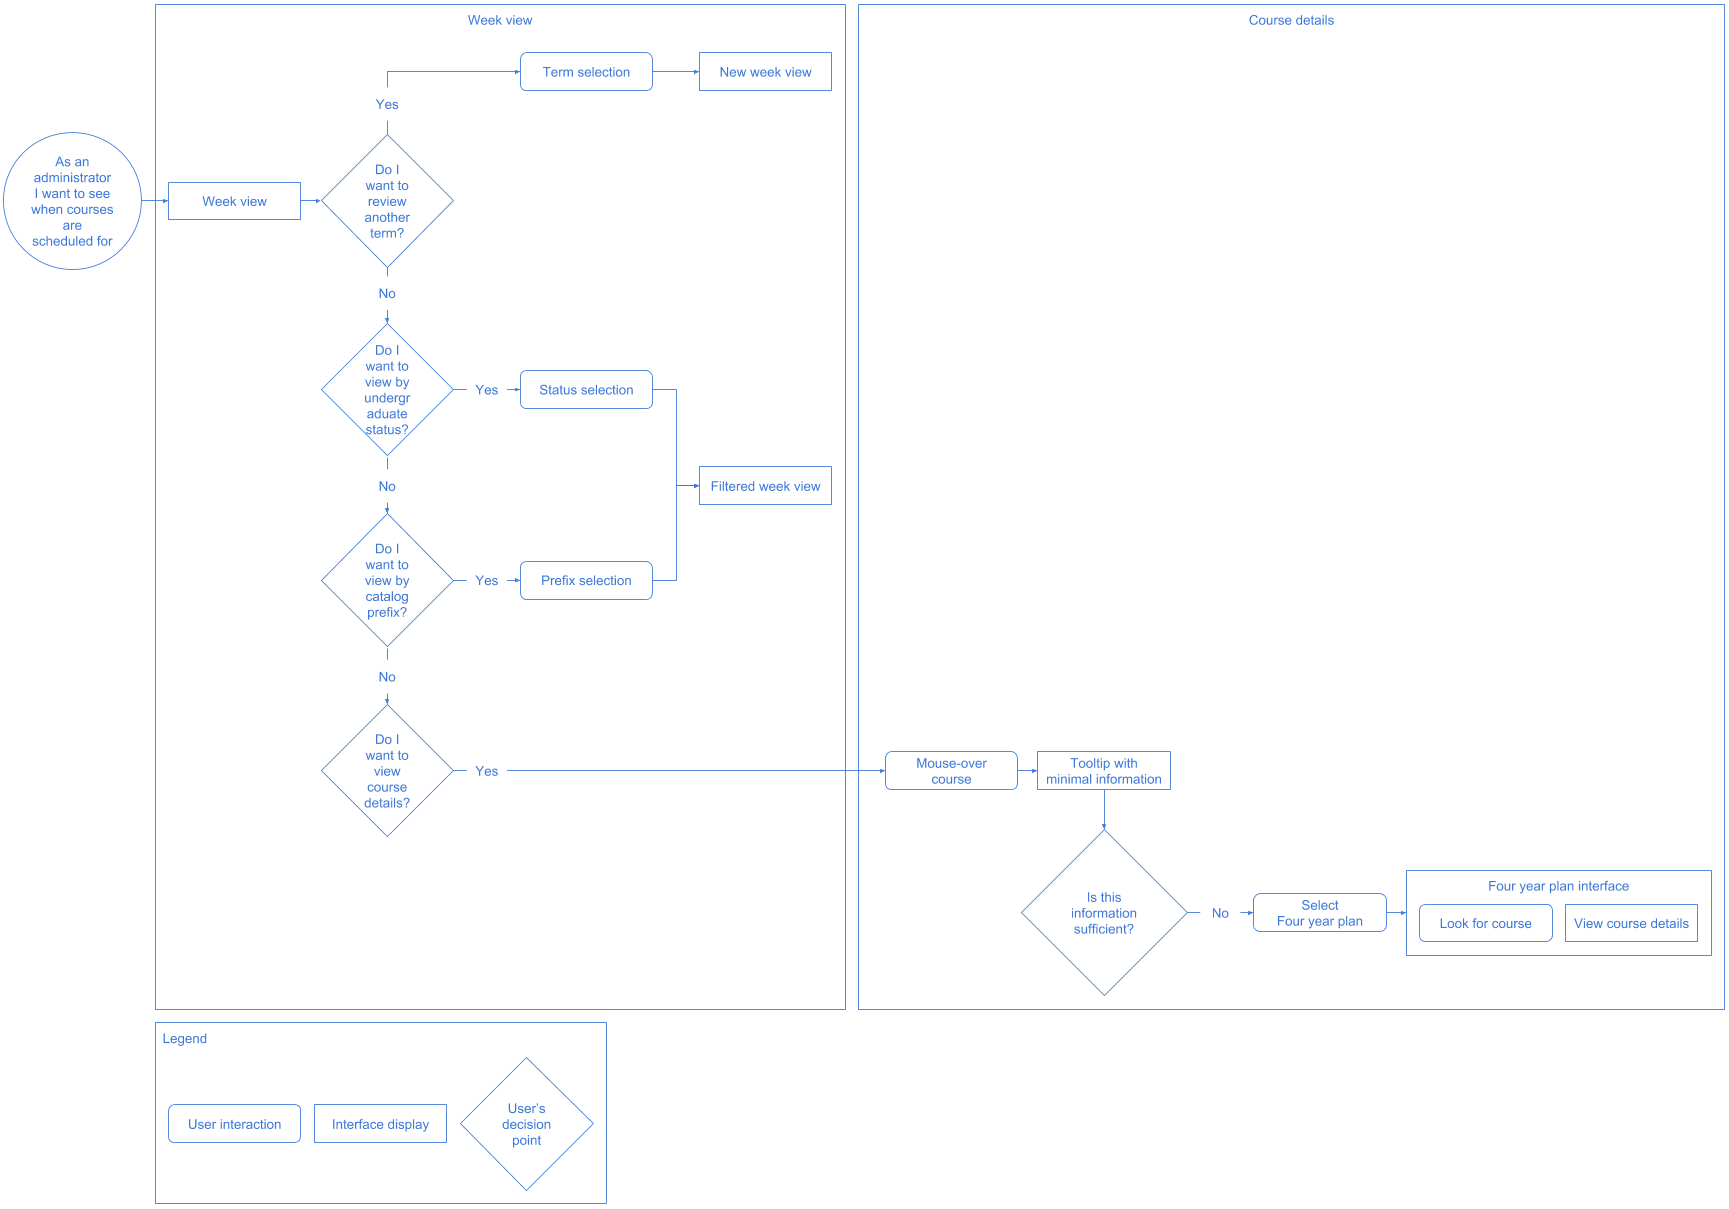
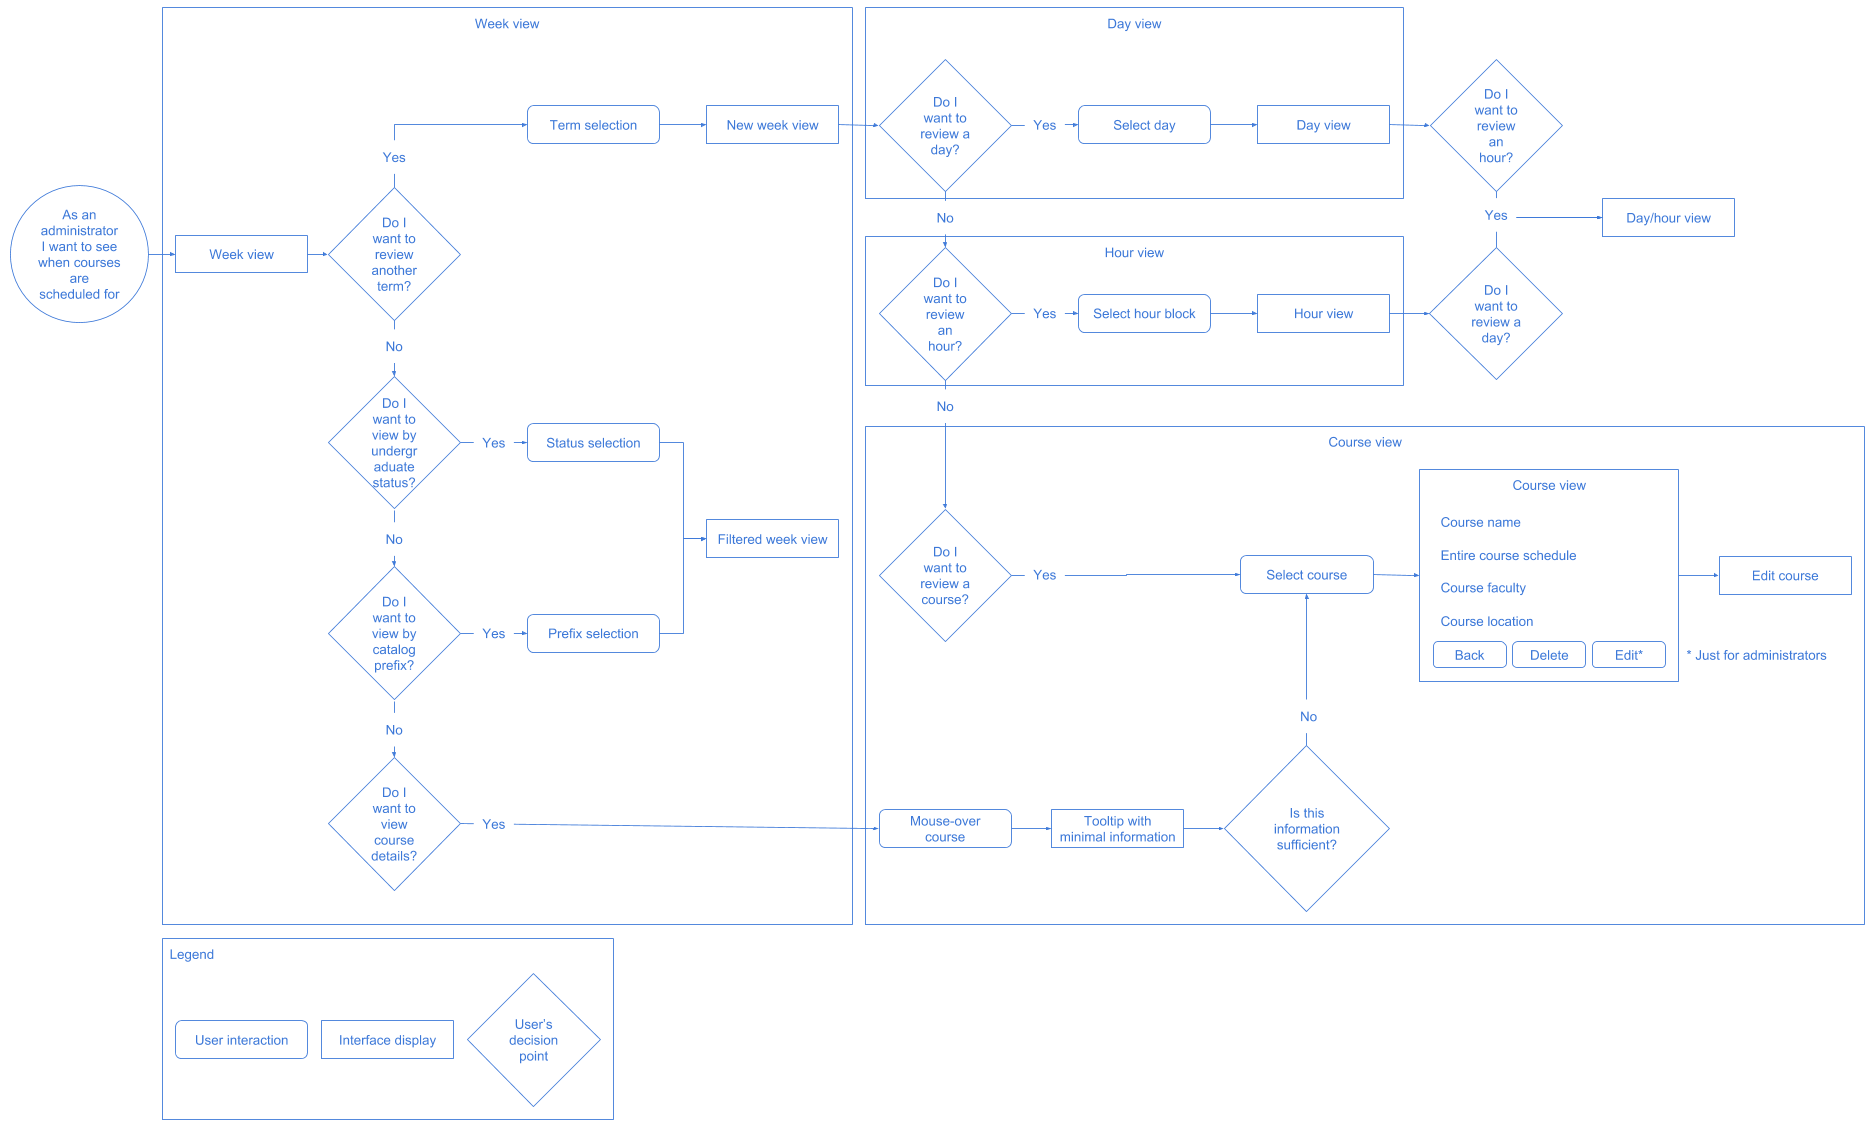
Add files via upload
Interaction flows

diff --git a/evaluation/SEAS-coursePlanner/index.html b/evaluation/SEAS-coursePlanner/index.html
@@ -860,46 +860,48 @@
       </section><!-- / Recommendations - Current Interface -->
 
       <!-- Recommendations - Proposed Interface -->
-      <!--<section id="coursePlanneraRecomendation-interface_proposed" class="bg-light">-->
-        <!--<div class="container-fluid">-->
-          <!--<div class="row">-->
-            <!--<div class="col-lg-11">-->
-              <!--<h3>Proposed Interface</h3>-->
-            <!--</div>-->
-          <!--</div>-->
-          <!--<div class="row">-->
+      <section id="coursePlanneraRecomendation-interface_proposed" class="bg-light">
+        <div class="container-fluid">
+          <div class="row">
+            <div class="col-lg-11">
+              <h3>Proposed Interface</h3>
+            </div>
+          </div>
+          <div class="row">
+            <div class="col-lg-11">
+              <h3>Interaction flow</h3>
+            </div>
+          </div>
+          <div class="row">
 
-            <!--<div class="col-lg-3">-->
-              <!--Usability issues to resolve-->
-              <!--<ol type="A">-->
-                  <!--<li>-->
-                      <!--All selections are within drop down menus-->
-                  <!--</li>-->
-                  <!--<li>-->
-                      <!--Course details can be accessed only via mouse-over-->
-                  <!--</li>-->
-                  <!--<li>-->
-                      <!--Course details are limited to the catalog name and scheduled time-->
-                  <!--</li>-->
-              <!--</ol>-->
-            <!--</div>-->
-            <!--<div class="col-lg-9 img-hover">-->
-              <!--<a href="wireframe-coursePlanner_current.png" target="_blank" title="Select to open full size image in a new tab">-->
-                  <!--<img src="wireframe-coursePlanner_current.png" width="100%" class="img-border img-fluid img-rounded">-->
-              <!--</a>-->
-              <!--<p class="text-muted">-->
-                  <!--<small>-->
-                    <!--Wireframe of current Course Planner interface - -->
-                    <!--<a href="https://drive.google.com/open?id=1fj1ciW_7vu7Nzh_Q39dbmOQBiUpv4o93GqilblcLB6Y" target="_blank">-->
-                      <!--Google Drive-->
-                    <!--</a>-->
-                  <!--</small>-->
-              <!--</p>-->
-            <!--</div>-->
+            <div class="col-lg-3">
+              Usability recommendations
+              <ol type="A">
+                  <li>
+                      Intutive week, day, hour and course details view
+                  </li>
+                  <li>
+                      Course details can be accessed both via mouse-over (limited details) or selection (full details)
+                  </li>
+              </ol>
+            </div>
+            <div class="col-lg-9 img-hover">
+              <a href="SEAS-interactionFlow-coursePlanner_proposed.png" target="_blank" title="Select to open full size image in a new tab">
+                  <img src="SEAS-interactionFlow-coursePlanner_proposed.png" width="100%" class="img-border img-fluid img-rounded">
+              </a>
+              <p class="text-muted">
+                  <small>
+                    Interaction flow of current Course Planner interface - Source file on
+                    <a href="https://drive.google.com/open?id=1r52CmHa1GqLseDCGi2IDdHPpbI_2H449T-NV4IVxPVo" target="_blank">
+                      Google Drive
+                    </a>
+                  </small>
+              </p>
+            </div>
 
-          <!--</div>-->
-        <!--</div>-->
-      <!--</section>-->
+          </div>
+        </div>
+      </section>
           <!-- / Recommendations - Proposed Interface -->
 
     </main><!-- /Main -->
